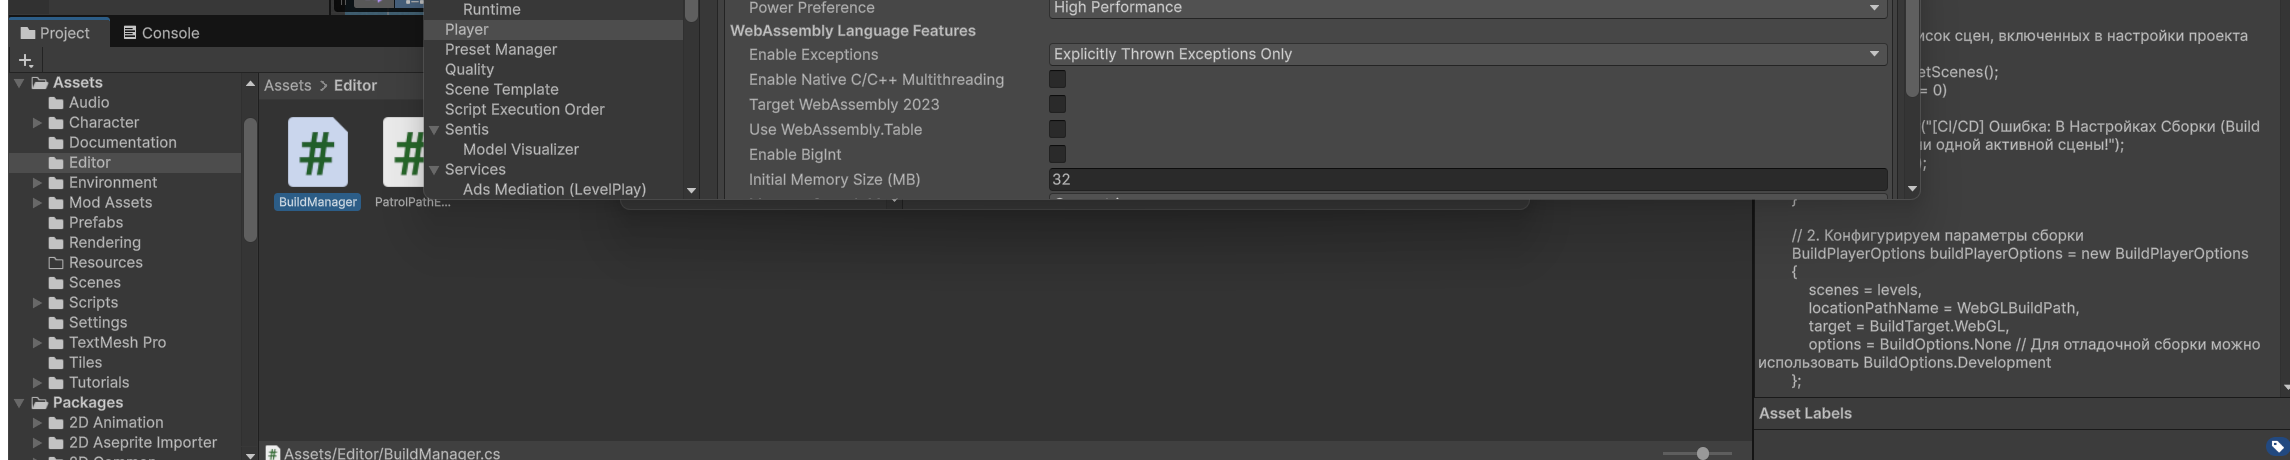
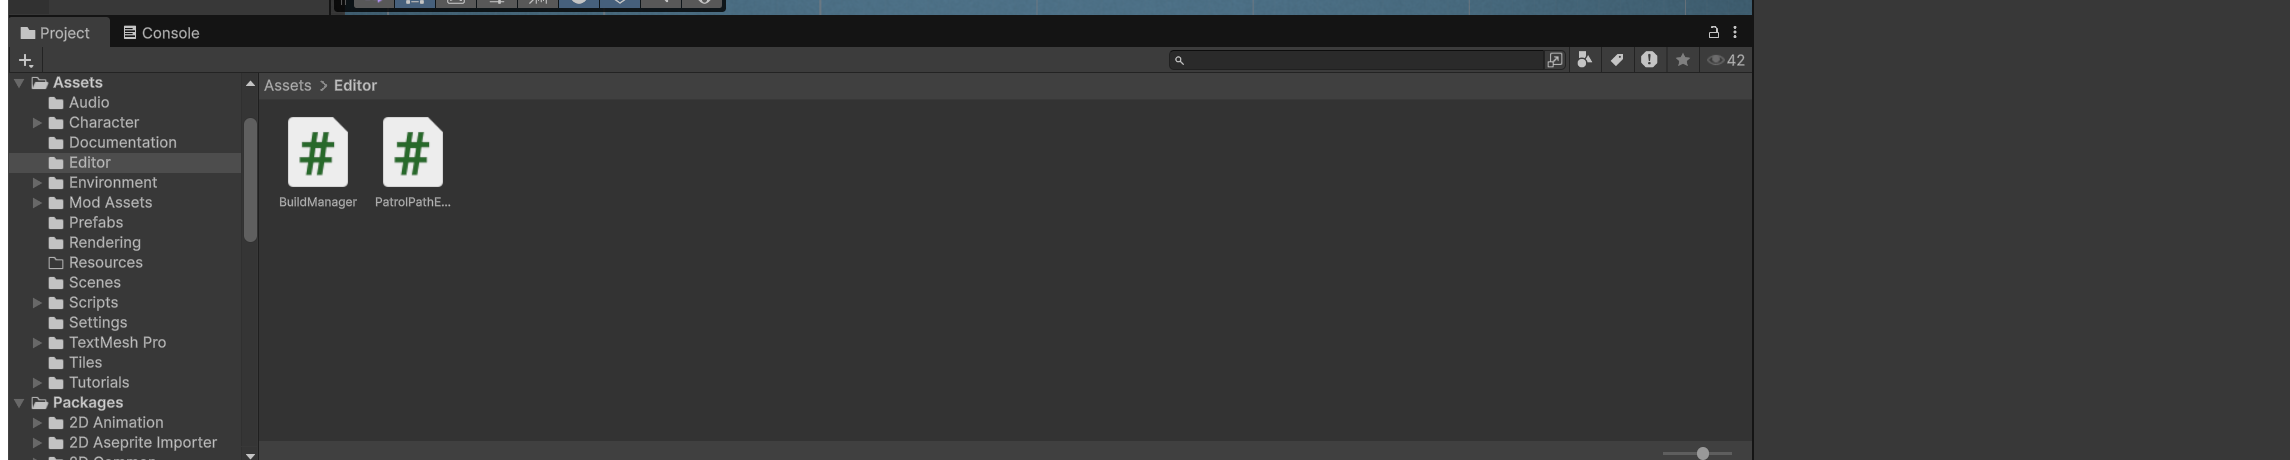
docs: Lab #1 screenshots added and report details updated

diff --git a/README.md b/README.md
@@ -198,7 +198,7 @@ public static class BuildManager
 
 ```
 [CI/CD] УСПЕХ! WebGL билд успешно создан.
-[CI/CD] Время сборки: 22,32 сек. Размер: 66324251 байт.
+[CI/CD] Время сборки: 17,36 сек. Размер: 66324250 байт.
 ```
 
 Код возврата процесса равен нулю (`Unity exit code: 0`) — именно по нему система непрерывной интеграции понимает, что сборка прошла успешно.
@@ -274,21 +274,17 @@ git commit -m "docs: Lab report #1 added"
 git push origin LR1
 ```
 
-На GitHub создан pull request с `base: main` и `compare: LR1`. В качестве ревьюеров указаны два одногруппника. Ревьюеры изучили вкладку `Files changed` — код скрипта и структуру отчёта — и оставили комментарии с оценкой работы.
+На GitHub создан pull request с `base: main` и `compare: LR1`: в нём видны добавленные файлы, история коммитов ветки и описание работы.
 
-![Скриншот 12 — страница pull request LR1 → main с описанием и списком ревьюеров](screenshots/12_pull_request.png)
+![Скриншот 12 — страница pull request LR1 → main](screenshots/12_pull_request.png)
 
-![Скриншот 13 — вкладка Files changed с комментариями ревьюеров](screenshots/13_files_changed_review.png)
-
-После получения двух аппрувов pull request объединён с веткой `main` кнопкой `Merge pull request`.
-
-![Скриншот 14 — два зелёных аппрува и результат Merge pull request](screenshots/14_merged.png)
+Изменения проверены по вкладке `Files changed`, после чего pull request объединён с веткой `main`.
 
 Ссылка на репозиторий размещена в лабораторной работе №1 в Google Classroom.
 
 ## Вывод
 
-В ходе работы выполнена автоматическая сборка проекта Unity под платформу WebGL из командной строки, без открытия графического интерфейса редактора. Написан скрипт `BuildManager.cs`, который получает список активных сцен из настроек сборки, конфигурирует `BuildPlayerOptions` и запускает компиляцию через `BuildPipeline.BuildPlayer`, а результат сообщает кодом возврата процесса — именно этот код будет использовать система непрерывной интеграции. Освоены флаги командной строки `-batchmode`, `-nographics`, `-executeMethod`, `-quit` и `-logFile`. Собранная игра проверена локально через Live Server. Работа оформлена в Git по схеме ветвление → pull request → ревью → merge, что соответствует принятому в коммерческой разработке процессу.
+В ходе работы выполнена автоматическая сборка проекта Unity под платформу WebGL из командной строки, без открытия графического интерфейса редактора. Написан скрипт `BuildManager.cs`, который получает список активных сцен из настроек сборки, конфигурирует `BuildPlayerOptions` и запускает компиляцию через `BuildPipeline.BuildPlayer`, а результат сообщает кодом возврата процесса — именно этот код будет использовать система непрерывной интеграции. Освоены флаги командной строки `-batchmode`, `-nographics`, `-executeMethod`, `-quit` и `-logFile`. Собранная игра проверена локально через веб-сервер. Работа оформлена в Git по схеме ветвление → pull request → слияние в главную ветку, что соответствует принятому в коммерческой разработке процессу.
 
 ## Контрольные вопросы
 
@@ -335,10 +331,8 @@ if (levels.Length == 0)
 | `08_build_log_success.png` | конец файла `build_webgl.log` со строкой `[CI/CD] УСПЕХ!` |
 | `09_builds_webgl_folder.png` | папка `Builds/WebGL` с `index.html`, `Build`, `TemplateData` |
 | `10_game_in_browser.png` | игра в браузере через Live Server, главный экран |
-| `11_git_commands.png` | терминал: git-команды, коммиты и вывод `git push` |
-| `12_pull_request.png` | страница PR `LR1 → main`, список ревьюеров |
-| `13_files_changed_review.png` | вкладка `Files changed` с комментариями ревьюеров |
-| `14_merged.png` | два аппрува и результат `Merge pull request` |
+| `11_git_commands.png` | терминал: коммиты ветки `LR1` и адрес удалённого репозитория |
+| `12_pull_request.png` | страница PR `LR1 → main` |
 
 ---
 
